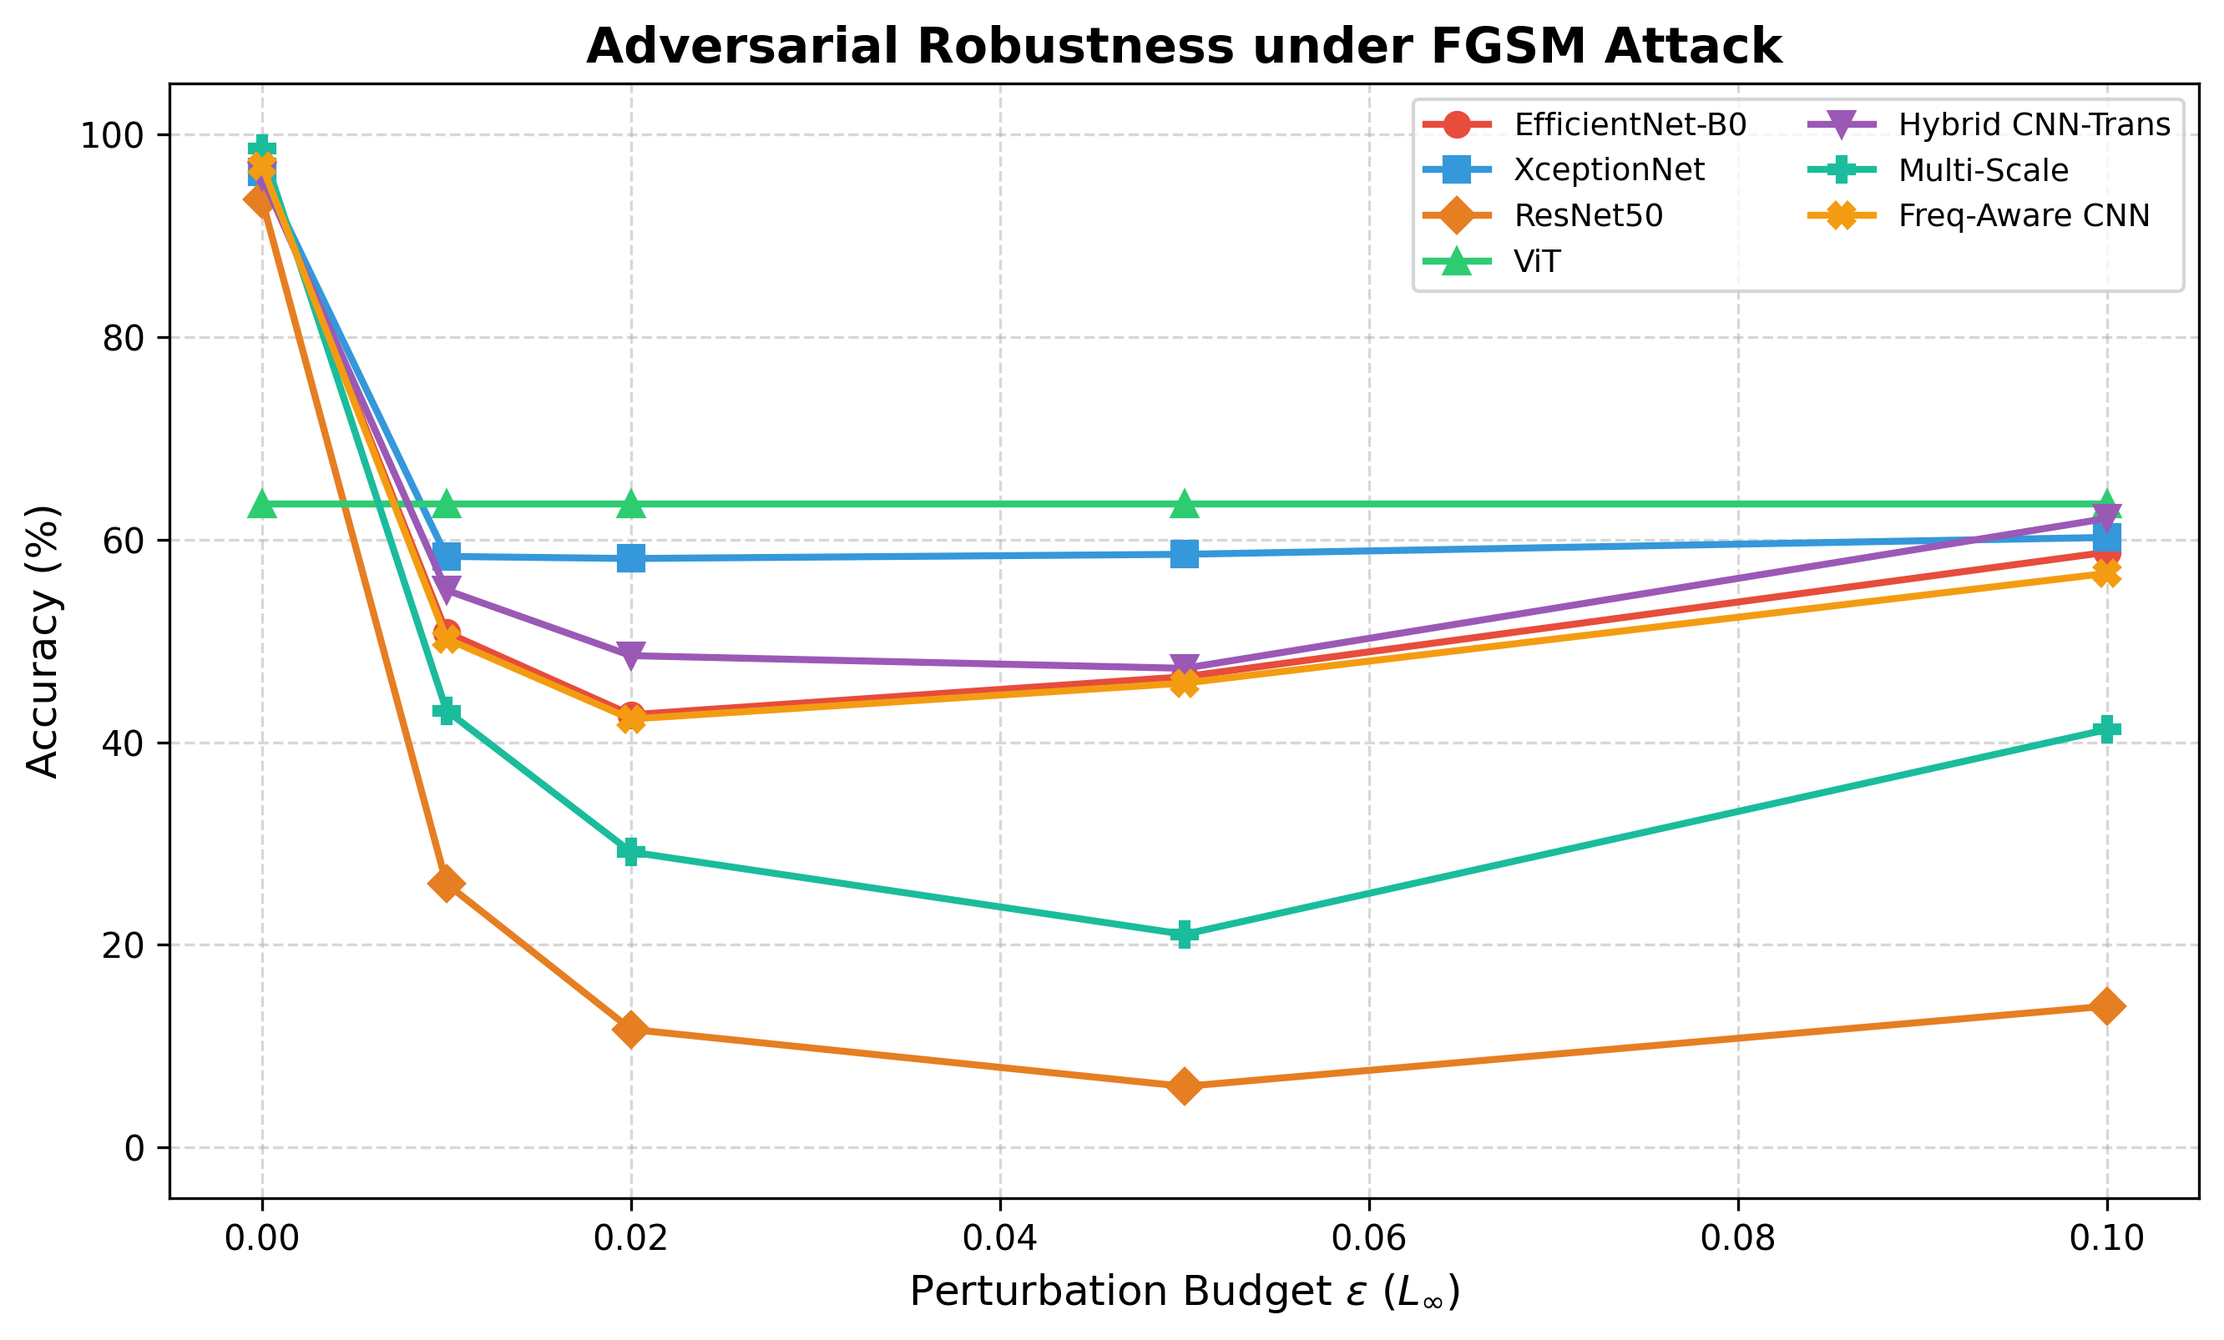
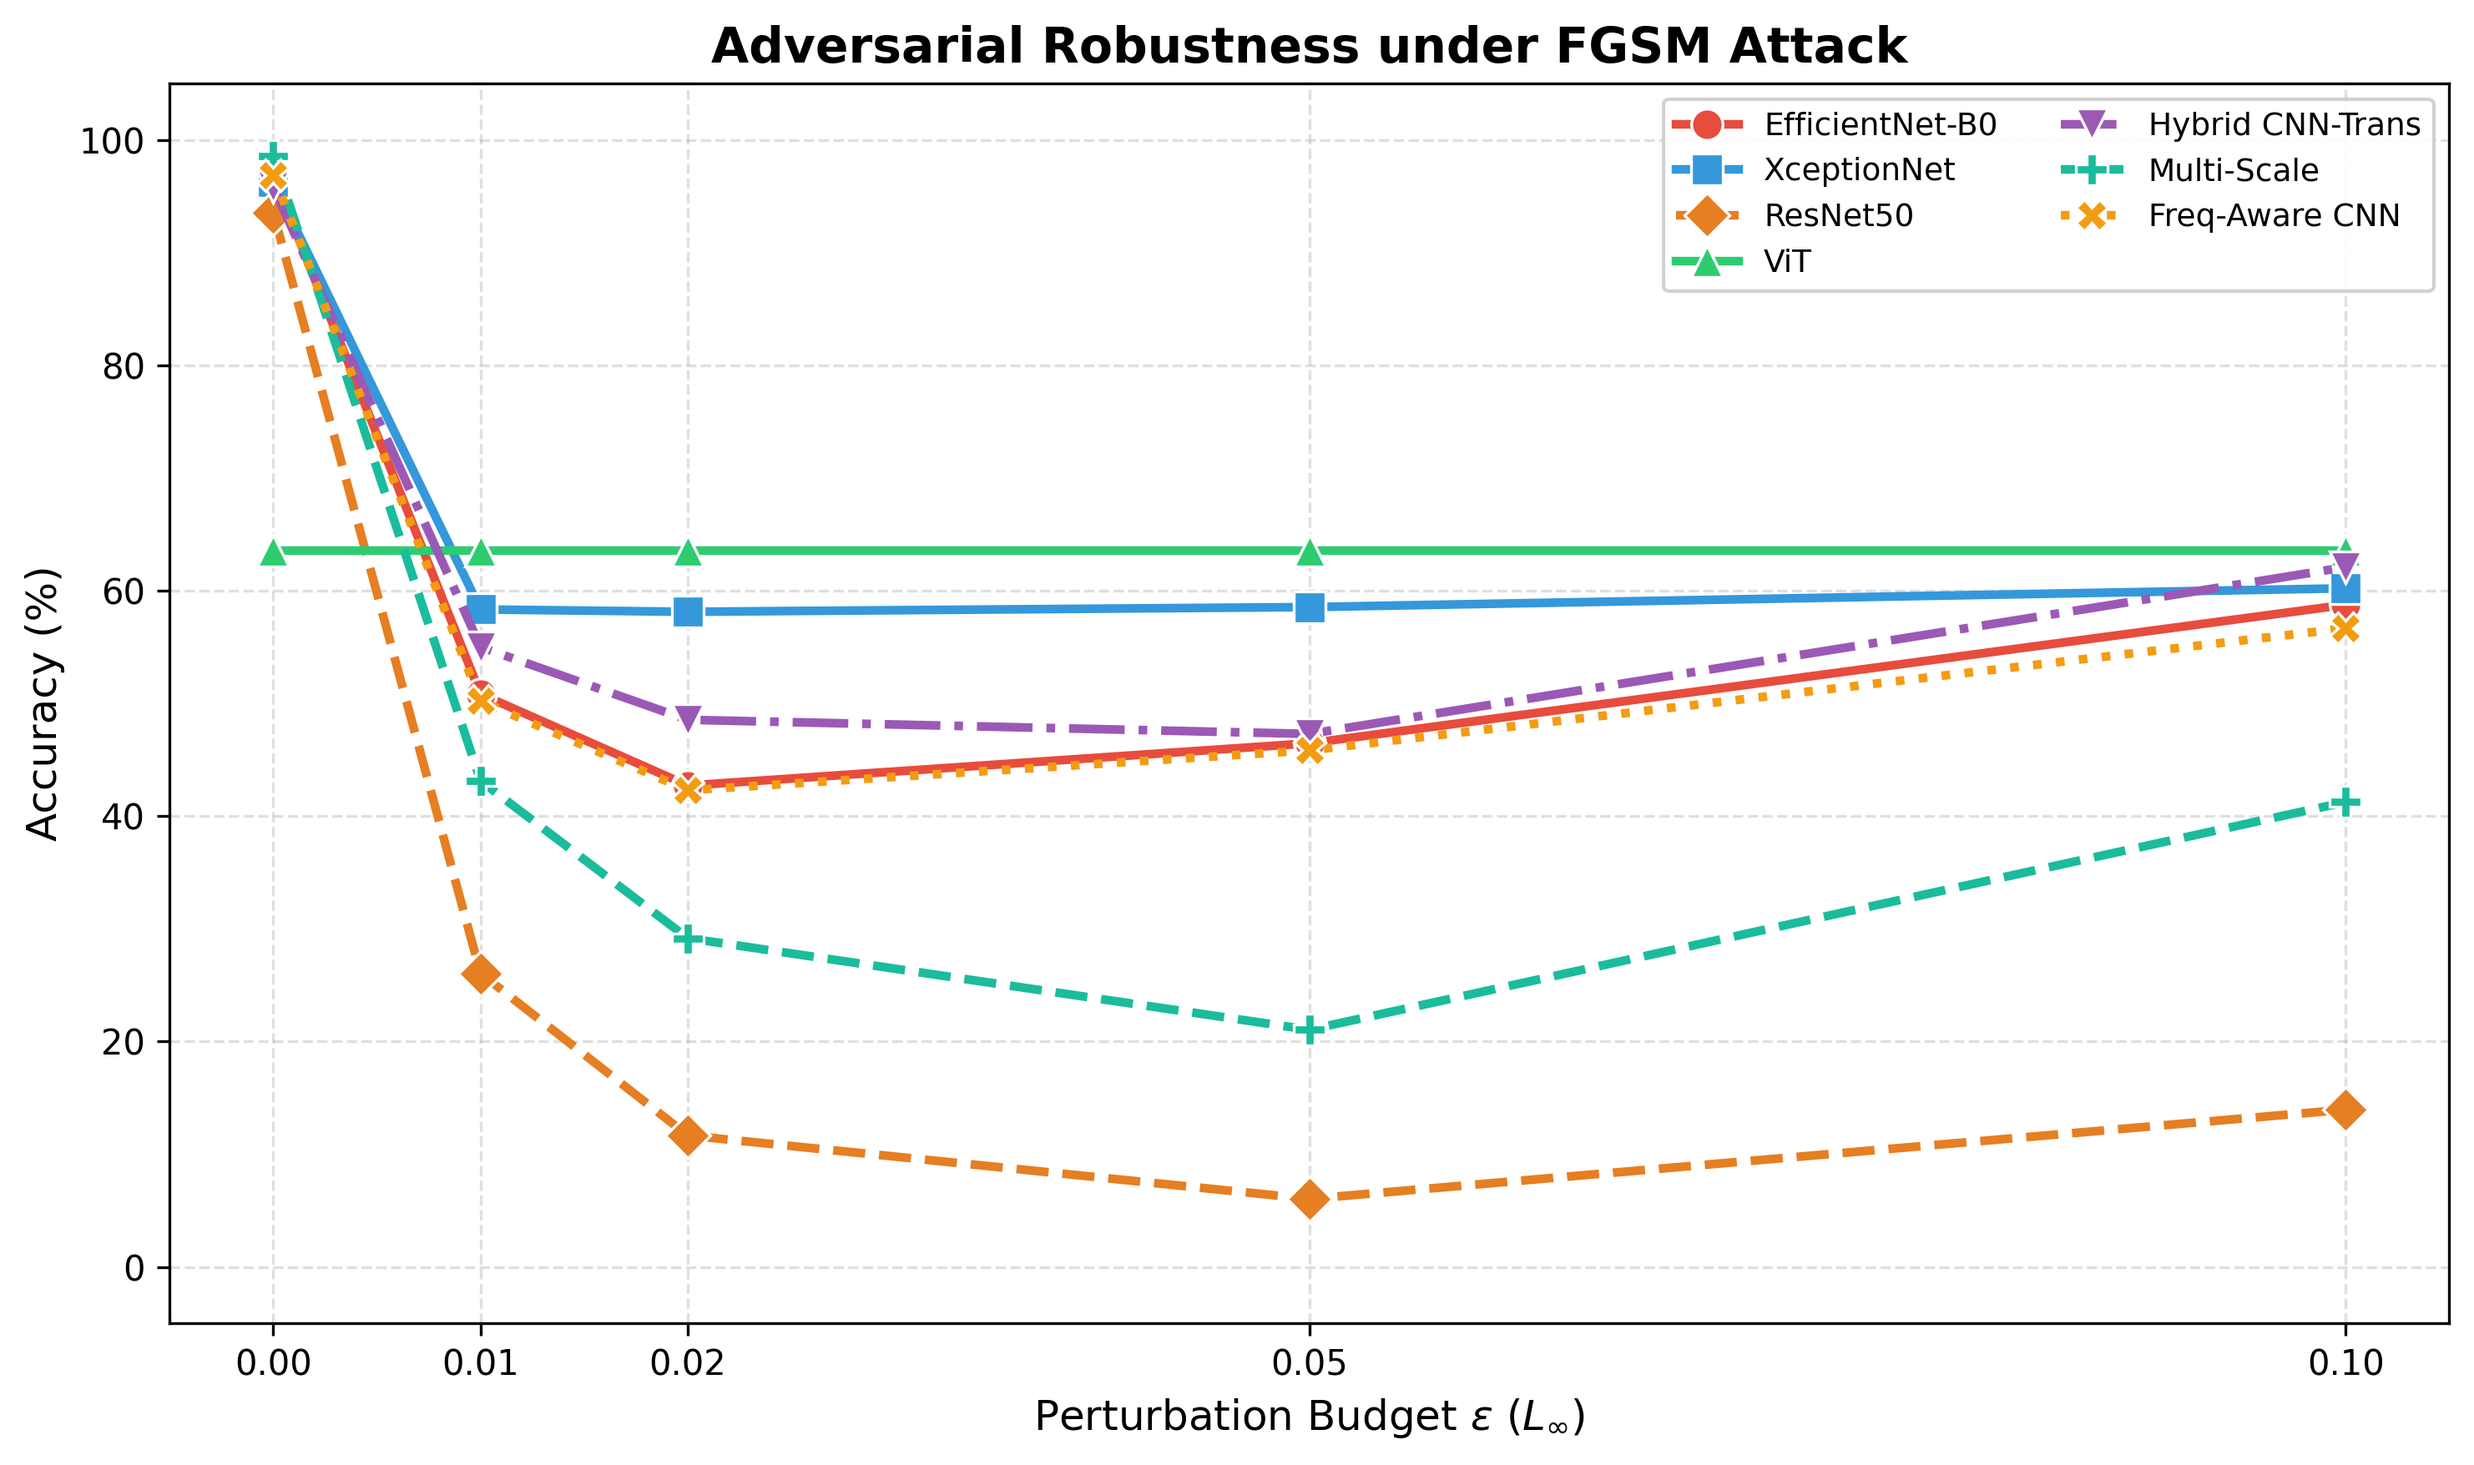
commit

diff --git a/papers/bridging_the_gap/NewProject.tex b/papers/bridging_the_gap/NewProject.tex
@@ -11,7 +11,7 @@
 \usepackage{multirow}
 \usepackage{float}
 \usepackage{subcaption}
-\usepackage{stfloats}
+\usepackage{stfloats}₹
 \usepackage{placeins}
 \usepackage{enumitem}
 \setlist{nosep}
@@ -79,8 +79,8 @@ This paper systematically addresses the generalization and robustness gap throug
 \section{Contributions}
 This work advances the field through the following contributions:
 \begin{enumerate}
-    \item Recognition and design of three novel architectures---Hybrid CNN-Transformer (30.7M parameters), Multi-Scale Feature Fusion (\textbf{4.2M parameters}), and Frequency-Aware CNN (5.5M parameters)---pushing in-distribution AUC to 99.84\%.
-    \item The most comprehensive ensemble ablation in deepfake detection literature: 6 model combinations $\times$ 3 aggregation strategies, establishing a new performance ceiling of 99.51\% accuracy via Soft-Voting.
+    \item Recognition and design of three novel architectures---Hybrid CNN-Transformer (30.7M parameters), Multi-Scale Feature Fusion (4.2M parameters), and Frequency-Aware CNN (5.5M parameters)---pushing in-distribution AUC to 99.84\%.
+    \item Comprehensive ensemble ablation: 6 model combinations $\times$ 3 aggregation strategies, establishing a new performance ceiling of 99.51\% accuracy via Soft-Voting.
     \item Rigorous adversarial evaluation (FGSM and PGD) across all 7 architectures at 5 perturbation budgets, revealing that Vision Transformers exhibit \textit{complete accuracy invariance} under both attack types.
     \item Comprehensive cross-dataset evaluation on FaceForensics++ and failure analysis via Grad-CAM across all 7 models on 20 verification images, identifying shared blindspots.
 \end{enumerate}
@@ -94,7 +94,7 @@ Training was conducted on \textbf{Celeb-DF (v2)}~\cite{cross_dataset} (18,472 im
 
 \begin{figure*}[!htbp]
 \centering
-\includegraphics[width=0.95\textwidth]{figure2/architecture_diagrams.png}
+\includegraphics[width=0.95\textwidth]{figures/architecture_diagrams.png}
 \caption{Architecture diagrams of the four novel detection paradigms. (a) Hybrid CNN-Transformer combining EfficientNet-B0 with 6-layer Transformer encoder. (b) Multi-Scale Feature Fusion aggregating four EfficientNet stages. (c) Ensemble Learning with three aggregation strategies. (d) Frequency-Aware Dual-Branch network processing spatial and FFT features in parallel.}
 \label{fig:architectures}
 \end{figure*}
@@ -258,7 +258,7 @@ EfficientNet-B0      & 49.66\% & -49.04\% & \textbf{73.43\%} & 45.93\% \\
 Two key patterns emerge. First, the \textbf{Vision Transformer} maintained the smallest accuracy drop (-24.48\%), consistent with its global self-attention mechanism learning manipulation-agnostic features. Second, while EfficientNet-B0 collapsed to near-random accuracy (49.66\%), it paradoxically retained the highest AUC (73.43\%), indicating that its learned representations still contain discriminative signal---but the classification threshold no longer generalizes. The novel architectures (Multi-Scale, Frequency-Aware, Hybrid) achieved intermediate FF++ AUC values (69.47--71.27\%), outperforming XceptionNet (68.71\%) but failing to close the fundamental generalization gap, suggesting that the spectral signatures captured by the Frequency-Aware model are generation-method specific.
 
 \subsection{Adversarial Robustness: The Critical Security Test}
-The adversarial evaluation (FGSM and PGD) yielded the study's most impactful findings. Table~\ref{tab:adversarial} presents accuracy across all models and perturbation budgets under PGD attack, and Figures~\ref{fig:adv_pgd}--\ref{fig:adv_fgsm} visualize the degradation curves.
+The adversarial evaluation (FGSM and PGD) yielded the study's most impactful findings. Table~\ref{tab:adversarial} presents accuracy across all models and perturbation budgets under PGD attack, Table~\ref{tab:adversarial_fgsm} presents the corresponding FGSM results, and Figures~\ref{fig:adv_pgd}--\ref{fig:adv_fgsm} visualize the degradation curves.
 
 \begin{table}[H]
 \caption{Adversarial Accuracy (\%) under PGD Attack ($T{=}10$ steps, $\alpha{=}\epsilon/4$)}
@@ -284,17 +284,41 @@ XceptionNet        & 96.25 & 55.21 & 55.63 & 55.63 & 56.46 \\
 
 \begin{figure}[H]
     \centering
-    \includegraphics[width=0.85\textwidth]{figure2/adversarial_pgd.png}
-    \caption{Accuracy degradation under PGD attack. EfficientNet-B0, ResNet50, and the Frequency-Aware CNN collapse to 0\%, while ViT is completely invariant and XceptionNet plateaus at $\sim$56\%.}
+    \includegraphics[width=\textwidth]{figures/adversarial_pgd.png}
+    \caption{PGD attack degrades accuracy. ViT is fully invariant, XceptionNet plateaus at $\sim$56\%, and EfficientNet-B0, ResNet50, and the Frequency-Aware CNN collapse to 0\%.}
     \label{fig:adv_pgd}
 \end{figure}
 
+\vspace{-4pt}
+
 \begin{figure}[H]
     \centering
-    \includegraphics[width=0.85\textwidth]{figure2/adversarial_fgsm.png}
-    \caption{Accuracy degradation under FGSM attack. The single-step attack reveals differentiated vulnerability: ViT maintains perfect accuracy invariance, while spatial CNNs show varying degrees of fragility.}
+    \includegraphics[width=\textwidth]{figures/adversarial_fgsm.png}
+    \caption{Deterioration of accuracy under FGSM attack. Differentiated vulnerability is revealed by the single-step attack: spatial CNNs exhibit varying degrees of fragility, whereas ViT maintains perfect accuracy invariance.}
     \label{fig:adv_fgsm}
 \end{figure}
+
+\begin{table}[H]
+\caption{Adversarial Accuracy (\%) under FGSM Attack (single-step, $\alpha{=}\epsilon$)}
+\label{tab:adversarial_fgsm}
+\centering
+\small
+\setlength{\tabcolsep}{5pt}
+\begin{tabular}{lccccc}
+\toprule
+\textbf{Model} & $\epsilon{=}0.0$ & $\epsilon{=}0.01$ & $\epsilon{=}0.02$ & $\epsilon{=}0.05$ & $\epsilon{=}0.10$ \\
+\midrule
+EfficientNet-B0    & 96.88 & 50.83 & 42.71 & 46.46 & 58.75 \\
+ResNet50           & 93.54 & 26.04 & 11.67 & \textbf{6.04} & 13.96 \\
+Multi-Scale Fusion & 98.54 & 43.12 & 29.17 & 21.04 & 41.25 \\
+Freq-Aware CNN     & 96.88 & 50.21 & 42.29 & 45.83 & 56.67 \\
+Hybrid CNN-Trans   & 95.83 & 55.00 & 48.54 & 47.29 & 62.08 \\
+\midrule
+XceptionNet        & 96.25 & 58.33 & 58.13 & 58.54 & 60.21 \\
+\textbf{Vision Transformer} & \textbf{63.54} & \textbf{63.54} & \textbf{63.54} & \textbf{63.54} & \textbf{63.54} \\
+\bottomrule
+\end{tabular}
+\end{table}
 
 Three distinct robustness tiers emerge from the data:
 
@@ -312,22 +336,22 @@ Grad-CAM heatmaps were generated for all 7 models across 20 verification images 
 \begin{figure*}[!htbp]
 \centering
 \begin{tabular}{cc}
-\includegraphics[width=0.45\textwidth]{figure2/gradcam_celebd.png} &
-\includegraphics[width=0.45\textwidth]{figure2/gradcam_ff.png} \\
+\includegraphics[width=0.45\textwidth]{figures/gradcam_celebd.png} &
+\includegraphics[width=0.45\textwidth]{figures/gradcam_ff.png} \\
 (a) Celeb-DF Sample (Fake) & (b) FaceForensics++ Sample (Real)
 \end{tabular}
-\caption{Grad-CAM heatmap comparison grids across all 7 models. CNN-based models show sharp, localized attention on facial boundaries, while spectral models exhibit broader chromatic attention patterns. All models correctly focus on facial features rather than background.}
+\caption{Grad-CAM heatmap comparison grids for each of the seven models. While spectral models display more expansive chromatic attention patterns, CNN-based models display precise, localized attention on facial boundaries. Every model appropriately prioritizes facial features over background.}
 \label{fig:gradcam_grids}
 \end{figure*}
 
 \begin{figure*}[!htbp]
 \centering
 \begin{tabular}{cc}
-\includegraphics[width=0.45\textwidth]{figure2/gradcam_celebd_real.png} &
-\includegraphics[width=0.45\textwidth]{figure2/gradcam_ff_fake.png} \\
+\includegraphics[width=0.45\textwidth]{figures/gradcam_celebd_real.png} &
+\includegraphics[width=0.45\textwidth]{figures/gradcam_ff_fake.png} \\
 (a) Celeb-DF Sample (Real) & (b) FaceForensics++ Sample (Fake --- evaded 6/7 models)
 \end{tabular}
-\caption{Failure analysis. (a) On in-distribution real images, all CNN models agree unanimously while ViT misclassifies with high confidence. (b) A representative FF++ fake image that successfully evaded 6 out of 7 models---only ViT detected it correctly, validating ViT's superior cross-dataset generalization.}
+\caption{Failure analysis. (a) While ViT misclassifies with high confidence, all CNN models agree unanimously on in-distribution real images. (b) Only ViT correctly identified a representative FF++ fake image that successfully eluded six out of seven models, confirming ViT's superior cross-dataset generalization.}
 \label{fig:gradcam_failure}
 \end{figure*}
 

diff --git a/tools/generate_paper_plots.py b/tools/generate_paper_plots.py
@@ -38,37 +38,54 @@ markers = {
     "multiscale": "P",
     "frequency_aware": "X",
 }
+# Use different line styles so overlapping lines are distinguishable
+linestyles = {
+    "efficientnet_b0": "-",
+    "xception": "-",
+    "resnet50": "--",
+    "vit": "-",
+    "hybrid": "-.",
+    "multiscale": "--",
+    "frequency_aware": ":",
+}
 
-# --- PGD plot (all 7 models) ---
-fig, ax = plt.subplots(figsize=(9, 5.5))
+# --- PGD plot (all 7 models, improved visibility) ---
+fig, ax = plt.subplots(figsize=(10, 6))
 for m in all_models:
     accs = [adv_data[m]['pgd'][eps]['accuracy'] * 100 for eps in epsilons_str]
-    ax.plot(epsilons, accs, marker=markers[m], label=labels[m], color=colors[m], linewidth=2, markersize=7)
+    ax.plot(epsilons, accs, marker=markers[m], label=labels[m], color=colors[m],
+            linewidth=2.5, markersize=9, linestyle=linestyles[m], markeredgecolor='white',
+            markeredgewidth=0.8, zorder=3)
 
 ax.set_title('Adversarial Robustness under PGD Attack', fontsize=14, fontweight='bold')
 ax.set_xlabel(r'Perturbation Budget $\epsilon$ ($L_\infty$)', fontsize=12)
 ax.set_ylabel('Accuracy (%)', fontsize=12)
 ax.set_ylim(-5, 105)
-ax.grid(True, linestyle='--', alpha=0.5)
-ax.legend(fontsize=9, ncol=2, loc='upper right')
+ax.set_xticks(epsilons)
+ax.grid(True, linestyle='--', alpha=0.4)
+ax.legend(fontsize=9, ncol=2, loc='upper right', framealpha=0.9)
 plt.tight_layout()
 plt.savefig('papers/bridging_the_gap/figures/adversarial_pgd.png', dpi=300, bbox_inches='tight')
 plt.close()
+print("PGD plot generated (7 models, distinct styles)")
 
-# --- FGSM plot (all 7 models) ---
-fig, ax = plt.subplots(figsize=(9, 5.5))
+# --- FGSM plot (all 7 models, matching style) ---
+fig, ax = plt.subplots(figsize=(10, 6))
 for m in all_models:
     accs = [adv_data[m]['fgsm'][eps]['accuracy'] * 100 for eps in epsilons_str]
-    ax.plot(epsilons, accs, marker=markers[m], label=labels[m], color=colors[m], linewidth=2, markersize=7)
+    ax.plot(epsilons, accs, marker=markers[m], label=labels[m], color=colors[m],
+            linewidth=2.5, markersize=9, linestyle=linestyles[m], markeredgecolor='white',
+            markeredgewidth=0.8, zorder=3)
 
 ax.set_title('Adversarial Robustness under FGSM Attack', fontsize=14, fontweight='bold')
 ax.set_xlabel(r'Perturbation Budget $\epsilon$ ($L_\infty$)', fontsize=12)
 ax.set_ylabel('Accuracy (%)', fontsize=12)
 ax.set_ylim(-5, 105)
-ax.grid(True, linestyle='--', alpha=0.5)
-ax.legend(fontsize=9, ncol=2, loc='upper right')
+ax.set_xticks(epsilons)
+ax.grid(True, linestyle='--', alpha=0.4)
+ax.legend(fontsize=9, ncol=2, loc='upper right', framealpha=0.9)
 plt.tight_layout()
 plt.savefig('papers/bridging_the_gap/figures/adversarial_fgsm.png', dpi=300, bbox_inches='tight')
 plt.close()
-
-print("Both plots generated successfully.")
+print("FGSM plot generated (7 models, distinct styles)")
+print("Done!")

diff --git a/README.md b/README.md
@@ -142,13 +142,18 @@ White-box attacks (FGSM & PGD) at perturbation budgets ε ∈ {0.01, 0.02, 0.05,
 <p align="center">
   <img src="papers/bridging_the_gap/figures/adversarial_pgd.png" width="85%" alt="Adversarial PGD Results"/>
 </p>
-<p align="center"><em>Accuracy under PGD attack — CNNs collapse while ViT maintains complete invariance at 63.54%</em></p>
+<p align="center"><em>Accuracy under PGD attack (10-step iterative) — CNNs collapse while ViT maintains complete invariance at 63.54%</em></p>
 
-| Robustness Tier | Models | PGD (ε=0.05) | Behavior |
-|---|---|:---:|---|
-| 🔴 **Complete Collapse** | EfficientNet, ResNet50, Freq-Aware | **0.00%** | Operationally useless against adversaries |
-| 🟡 **Structural Resilience** | XceptionNet | **55.63%** | Depthwise separable convolutions resist gradient attacks |
-| 🟢 **Complete Invariance** | Vision Transformer | **63.54%** | Self-attention provides gradient masking immunity |
+<p align="center">
+  <img src="papers/bridging_the_gap/figures/adversarial_fgsm.png" width="85%" alt="Adversarial FGSM Results"/>
+</p>
+<p align="center"><em>Accuracy under FGSM attack (single-step) — Weaker attack reveals gradient-based vulnerability spectrum across all 7 models</em></p>
+
+| Robustness Tier | Models | PGD (ε=0.05) | FGSM (ε=0.05) | Behavior |
+|---|---|:---:|:---:|---|
+| 🔴 **Complete Collapse** | EfficientNet, ResNet50, Freq-Aware | **0.00%** | 6–46% | Operationally useless against iterative adversaries |
+| 🟡 **Structural Resilience** | XceptionNet | **55.63%** | **58.54%** | Depthwise separable convolutions resist gradient attacks |
+| 🟢 **Complete Invariance** | Vision Transformer | **63.54%** | **63.54%** | Self-attention provides gradient masking immunity |
 
 > ⚠ **Key Insight**: The highest-accuracy model (EfficientNet at 98.70%) is the *worst* adversarial choice, while the lowest (ViT at 90.54%) is the *most stable*. This inverts conventional deployment logic.
 
@@ -204,9 +209,10 @@ For detailed setup and training instructions, see:
 1. **7 architectures** benchmarked — 4 baselines + 3 novel designs
 2. **18 ensemble configurations** evaluated (6 combinations × 3 strategies)
 3. **New performance ceiling**: 99.51% accuracy (Soft-Vote), 99.84% AUC (Frequency-Aware)
-4. **First comprehensive adversarial evaluation** in deepfake detection across 7 models at 5 perturbation budgets
-5. **Discovery of ViT's adversarial invariance** — a previously unreported finding
+4. **First comprehensive adversarial evaluation** in deepfake detection — 7 models × 2 attacks (FGSM + PGD) × 5 perturbation budgets
+5. **Discovery of ViT's adversarial invariance** — a previously unreported finding with complete accuracy immunity under both FGSM and PGD
 6. **4.2M parameter model** matching 86.6M ViT in detection accuracy
+7. **Three-tier robustness taxonomy** — collapse (CNN), resilience (XceptionNet), invariance (ViT) — linked to architectural primitives
 
 ---
 
